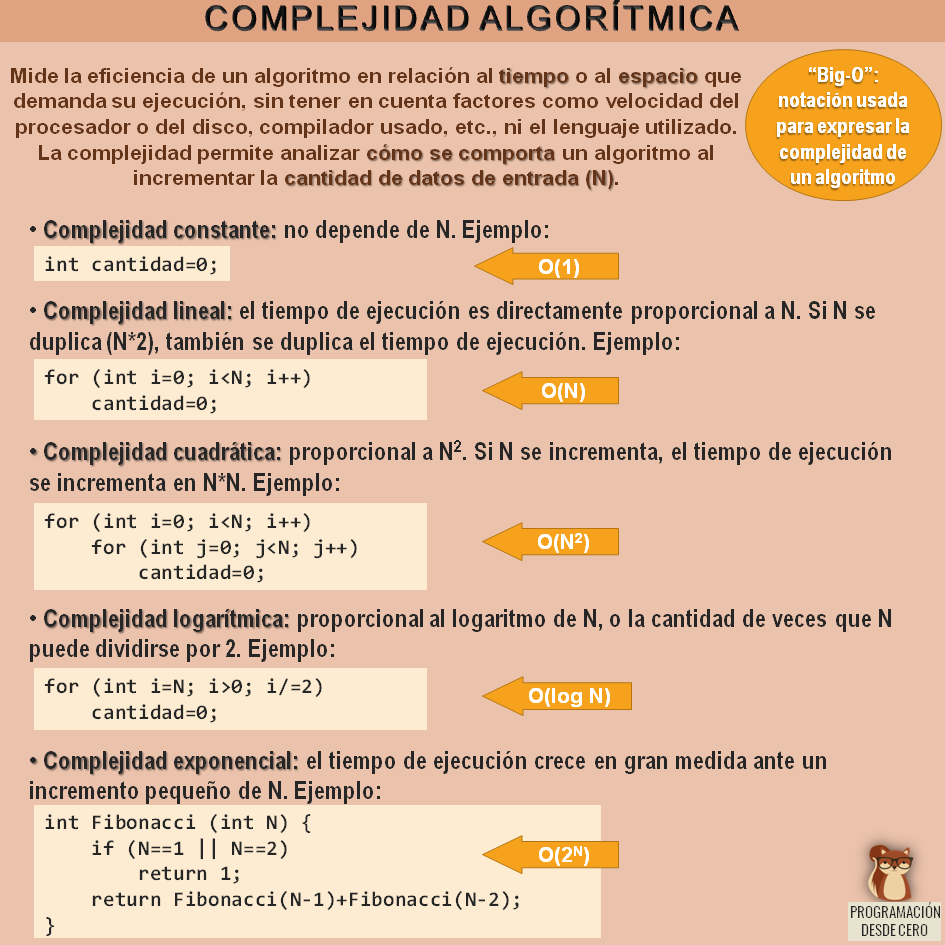
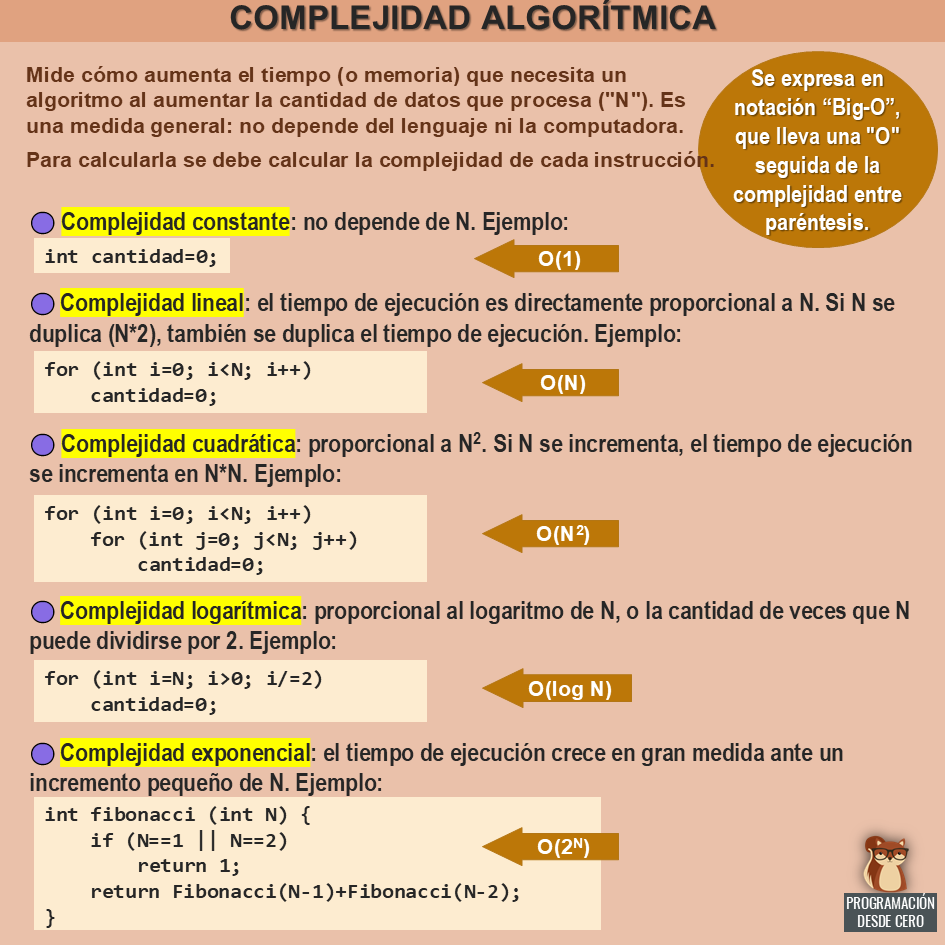
Update post on algorithmic complexity: revise title and description; replace images

Changed region(s): [[0.0, 0.0307, 1.0, 1.0], [0.2148, 0.0, 0.7979, 0.0307], [0.8899, 0.8593, 1.0, 1.0]]

diff --git a/_posts/2019-09-04-complejidad-algoritmica.md b/_posts/2019-09-04-complejidad-algoritmica.md
@@ -1,15 +1,15 @@
 ---
 layout: post
-title: La complejidad algorítmica
+title: Resumen de complejidad algorítmica
 date: 2019-09-04 21:00:00
 categories: conceptos
 tags: algoritmos complejidad bigO
 published: true
 ---
 
-Un breve resumen con algunos tipos de complejidad algorítmica comunes.
+Sabemos que un mismo problema podría resolverse con diferentes algoritmos, y la complejidad nos ayuda a evaluar la eficiencia de cada uno para optar por el mejor.
 
-Un problema podría resolverse con diferentes algoritmos y la complejidad nos ayuda a evaluar su eficiencia.
+Este resumen muestra los tipos más comunes de complejidad algorítmica respecto al tiempo.
 
 ![Complejidad algorítmica y "big O"]({{ site.url }}/assets/2019-09-04-complejidad-algoritmica-01.png)
 <br />
